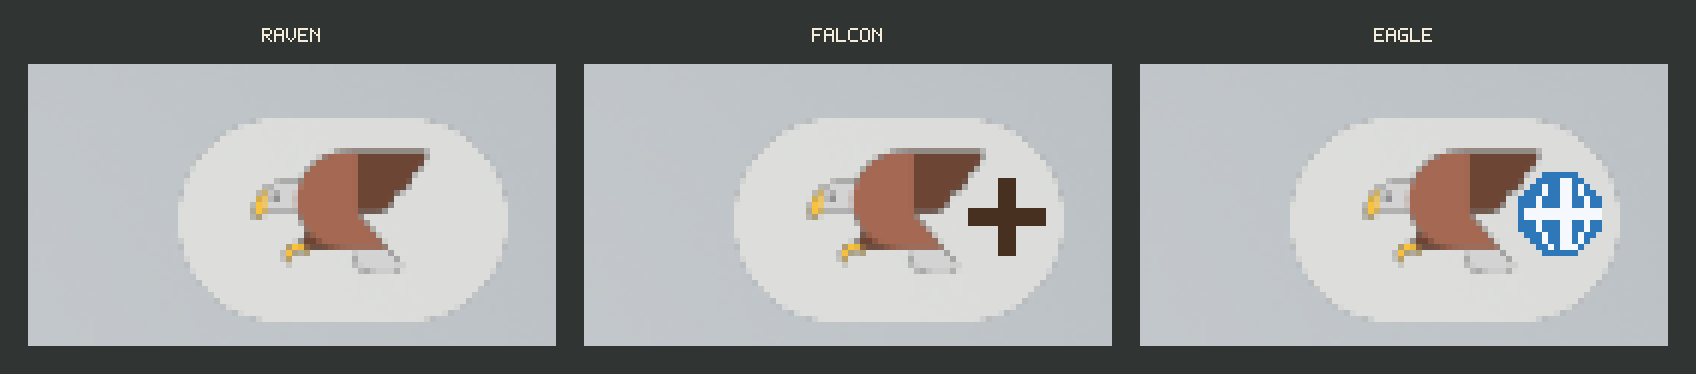
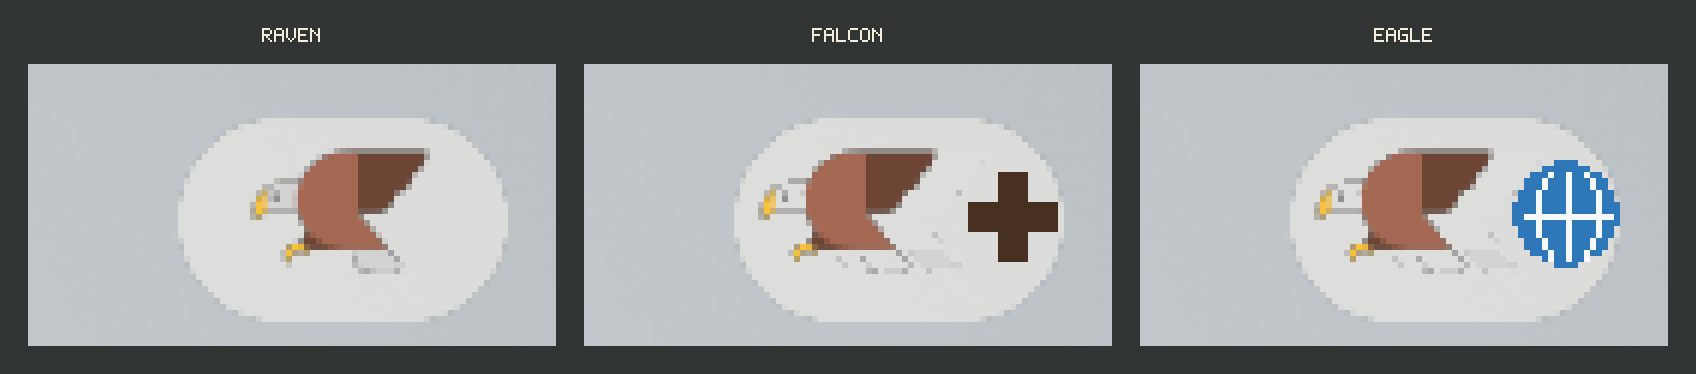
Shift the sight bird left and measure height from the ground.
Falcon and Eagle leave more room behind the eagle, and the globe is larger. Falcon's 20 m to 200 m is above the ground under the camera.

Changed region(s): [[0.75, 0.3824, 0.9688, 0.7353], [0.4375, 0.3824, 0.625, 0.7353]]

diff --git a/Planning/falcon-and-eagle-sight.md b/Planning/falcon-and-eagle-sight.md
@@ -4,7 +4,7 @@
 
 The player uses raven sight as a tactical view of the party. The camera stays within 50 m of the captain, and it does not move above ground that still has fog.
 
-The player chooses Falcon Sight. The camera sits higher than raven sight and lower than eagle sight, between 20 m and 200 m high, and within 50 m of the captain both east-west and north-south.
+The player chooses Falcon Sight. The camera sits higher than raven sight and lower than eagle sight, between 20 m and 200 m above the ground, and within 50 m of the captain both east-west and north-south.
 
 The player chooses Eagle Sight to see the whole map. The camera rises until the entire map is in view. On the ground it moves from the captain toward the centre of the world, along the line between them, and it stops at the closest point on that line that is still over ground with no fog.
 
@@ -12,20 +12,20 @@ The player enters Dragongate. Enter Dragongate fires, and from then on Falcon Si
 
 The player presses F9. The view moves from true sight to raven sight, then to Falcon Sight, then to Eagle Sight, and then back to true sight. A mode the player does not have yet is skipped.
 
-The player looks at the sight marker. The bird faces left, and the oval is empty behind it. Falcon Sight shows that same eagle, with a + in the space behind the bird. Eagle Sight shows that same eagle, with a small globe in the space behind the bird.
+The player looks at the sight marker. On Falcon Sight and Eagle Sight the bird sits further left than on raven sight, leaving more room behind it. Falcon Sight shows a + in that space. Eagle Sight shows a larger globe there.
 
 ## Acceptance
 
 - In raven sight the camera stays within 50 m of the captain, and it does not move above a terrain point whose `FSolidTerrainPoint.Fog` is greater than `0.0f`.
-- In Falcon Sight the camera is between 20 m and 200 m high, and within 50 m of the captain on both the X axis and the Y axis.
+- In Falcon Sight the camera is between 20 m and 200 m above the ground, and within 50 m of the captain on both the X axis and the Y axis.
 - In Eagle Sight the camera is high enough that the entire map is visible.
 - In Eagle Sight the camera's ground position lies on the line from the captain to the centre of the world, as close to that centre as possible while the terrain under the camera has `Fog` of `0.0f`.
 - True sight behaves as it does now.
 - When every sight mode is available, F9 cycles true sight, raven sight, Falcon Sight, Eagle Sight, and then true sight again.
 - F9 skips a mode that is not available and uses the next available mode in that order.
 - Falcon Sight and Eagle Sight become available when Enter Dragongate fires, and not before.
-- Falcon Sight shows the raven sight marker with a + in the space behind the bird.
-- Eagle Sight shows the raven sight marker with a small globe, Unicode U+1F310, in the space behind the bird.
+- Falcon Sight shows the raven eagle shifted left, with a + in the space behind the bird.
+- Eagle Sight shows the raven eagle shifted left, with a larger globe, Unicode U+1F310, in the space behind the bird.
 
 ## Implementation notes
 
@@ -34,6 +34,6 @@ The player looks at the sight marker. The bird faces left, and the oval is empty
 - The world is a 1024 m square. Its centre is the middle of that square.
 - Fog on a terrain point is `FSolidTerrainPoint.Fog`. The bands and the rule that the camera stays over clear ground are in [Source/SolidCore1/Fog/README.md](../Source/SolidCore1/Fog/README.md).
 - The raven marker is the eagle returned by `SolidSight::Marker` for raven sight, drawn in the translucent oval at the top right. True sight keeps the eye. The bird faces left, so the empty part of the oval is behind it.
-- Falcon's + and Eagle's globe sit in that space. The globe is a small U+1F310 (globe with meridians). [falcon-eagle-markers.png](falcon-eagle-markers.png) shows both on the current raven indicator.
+- On Falcon Sight and Eagle Sight the bird is shifted left so the mark behind it can be larger. The globe is U+1F310 (globe with meridians). [falcon-eagle-markers.png](falcon-eagle-markers.png) shows the current raven indicator beside those two.
+- Camera height, including Falcon's 20 m to 200 m, is measured from the ground under the camera.
 - To start with, both sights are enabled by `SolidEvents::IdEnterDragongate` (`e6a4f093`), the Enter Dragongate event. That event already enables raven sight.
-- Not decided: whether Falcon's height is measured above the ground under the camera.
